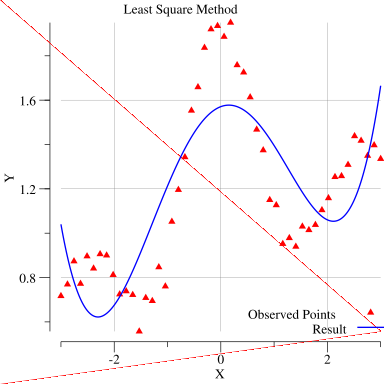
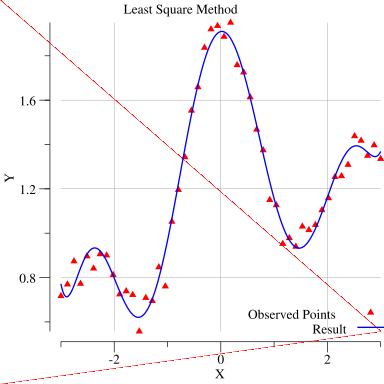
update

diff --git a/least-squares-method/lsm-polynomial.go b/least-squares-method/lsm-polynomial.go
@@ -100,7 +100,7 @@ func main() {
   // LSM
 
   // Make a matrix to solve
-  numParams := 5
+  numParams := 10
   mat := make([][]float64, numParams, numParams)
   fmt.Printf("[Matrix for Gausss Elimination]\n")
   for y := 0; y < numParams; y++ {
@@ -181,77 +181,4 @@ func main() {
   if err := p.Save(4, 4, "lsm-polynomial.png"); err != nil {
     panic(err)
   }
-
-
-  /*
-        // Get some random points
-        rand.Seed(int64(0))
-        n := 15
-        scatterData := randomPoints(n)
-        lineData := randomPoints(n)
-        linePointsData := randomPoints(n)
-
-        // Create a new plot, set its title and
-        // axis labels.
-        p, err := plot.New()
-        if err != nil {
-                panic(err)
-        }
-        p.Title.Text = "Points Example"
-        p.X.Label.Text = "X"
-        p.Y.Label.Text = "Y"
-        // Draw a grid behind the data
-        p.Add(plotter.NewGrid())
-
-        // Make a scatter plotter and set its style.
-        s, err := plotter.NewScatter(scatterData)
-        if err != nil {
-                panic(err)
-        }
-        s.GlyphStyle.Color = color.RGBA{R: 255, B: 128, A: 255}
-
-        // Make a line plotter and set its style.
-        l, err := plotter.NewLine(lineData)
-        if err != nil {
-                panic(err)
-        }
-        l.LineStyle.Width = vg.Points(1)
-        l.LineStyle.Dashes = []vg.Length{vg.Points(5), vg.Points(5)}
-        l.LineStyle.Color = color.RGBA{B: 255, A: 255}
-
-        // Make a line plotter with points and set its style.
-        lpLine, lpPoints, err := plotter.NewLinePoints(linePointsData)
-        if err != nil {
-                panic(err)
-        }
-        lpLine.Color = color.RGBA{G: 255, A: 255}
-        lpPoints.Shape = plot.PyramidGlyph{}
-        lpPoints.Color = color.RGBA{R: 255, A: 255}
-
-        // Add the plotters to the plot, with a legend
-        // entry for each
-        p.Add(s, l, lpLine, lpPoints)
-        p.Legend.Add("scatter", s)
-        p.Legend.Add("line", l)
-        p.Legend.Add("line points", lpLine, lpPoints)
-
-        // Save the plot to a PNG file.
-        if err := p.Save(4, 4, "points2.png"); err != nil {
-                panic(err)
-        }
-  */
-}
-
-// randomPoints returns some random x, y points.
-func randomPoints(n int) plotter.XYs {
-        pts := make(plotter.XYs, n)
-        for i := range pts {
-                if i == 0 {
-                        pts[i].X = rand.Float64()
-                } else {
-                        pts[i].X = pts[i-1].X + rand.Float64()
-                }
-                pts[i].Y = pts[i].X + 10*rand.Float64()
-        }
-        return pts
 }
